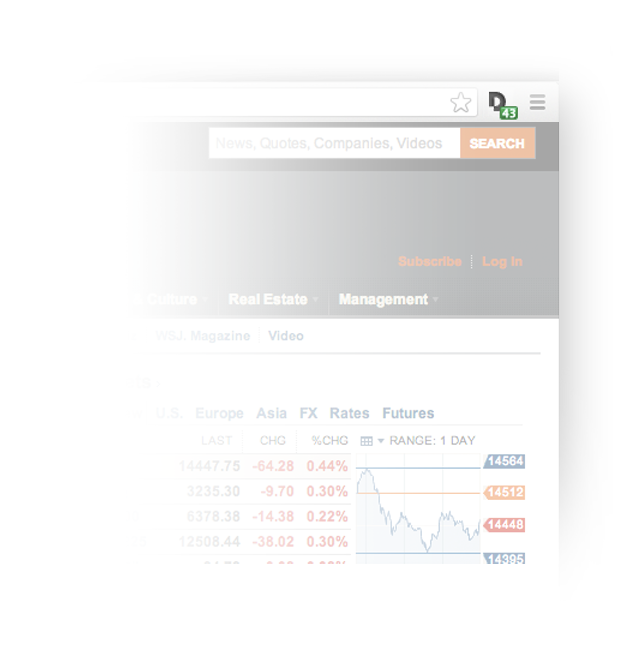
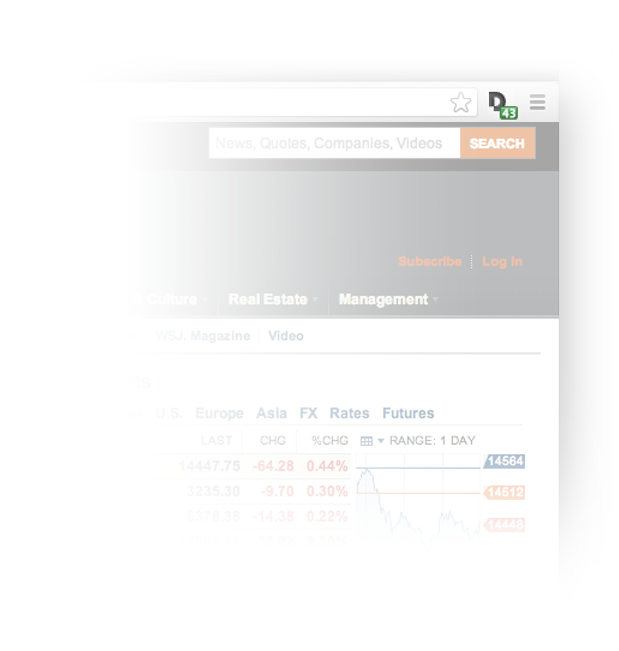
Updated browser. Refined gradient.

diff --git a/webkit/disconnect.safariextension/chrome/stylesheets/d2.css b/webkit/disconnect.safariextension/chrome/stylesheets/d2.css
@@ -49,14 +49,17 @@ body {
   display: inline-block;
   margin-top: 120px;
   margin-left: 6%;
+  width: 60%;
+  vertical-align: top
+}
+
+#description h1 {
   background: -webkit-gradient(radial, center center, 0, center center, 100%, color-stop(0%, white), color-stop(100%, rgba(255, 255, 255, 0)));
   background: -webkit-radial-gradient(center, ellipse cover, white 0%, rgba(255, 255, 255, 0) 100%);
   background: -moz-radial-gradient(center, ellipse cover, white 0%, rgba(255, 255, 255, 0) 100%);
   filter: progid:DXImageTransform.Microsoft.Gradient(GradientType=1, startColorstr='#ffffffff', endColorstr='#00ffffff');
   background: -ms-radial-gradient(center, ellipse cover, white 0%, rgba(255, 255, 255, 0) 100%);
-  background: -o-radial-gradient(center, ellipse cover, white 0%, rgba(255, 255, 255, 0) 100%);
-  width: 60%;
-  vertical-align: top
+  background: -o-radial-gradient(center, ellipse cover, white 0%, rgba(255, 255, 255, 0) 100%)
 }
 
 h2 {
@@ -64,7 +67,24 @@ h2 {
   color: #999
 }
 
-#cta { margin-top: 60px }
+#description h2 {
+  background: -webkit-gradient(radial, center center, 0, center center, 100%, color-stop(0%, white), color-stop(100%, rgba(255, 255, 255, 0)));
+  background: -webkit-radial-gradient(center, ellipse cover, white 0%, rgba(255, 255, 255, 0) 100%);
+  background: -moz-radial-gradient(center, ellipse cover, white 0%, rgba(255, 255, 255, 0) 100%);
+  filter: progid:DXImageTransform.Microsoft.Gradient(GradientType=1, startColorstr='#ffffffff', endColorstr='#00ffffff');
+  background: -ms-radial-gradient(center, ellipse cover, white 0%, rgba(255, 255, 255, 0) 100%);
+  background: -o-radial-gradient(center, ellipse cover, white 0%, rgba(255, 255, 255, 0) 100%)
+}
+
+#cta {
+  margin-top: 60px;
+  background: -webkit-gradient(radial, center center, 0, center center, 100%, color-stop(0%, white), color-stop(100%, rgba(255, 255, 255, 0)));
+  background: -webkit-radial-gradient(center, ellipse cover, white 0%, rgba(255, 255, 255, 0) 100%);
+  background: -moz-radial-gradient(center, ellipse cover, white 0%, rgba(255, 255, 255, 0) 100%);
+  filter: progid:DXImageTransform.Microsoft.Gradient(GradientType=1, startColorstr='#ffffffff', endColorstr='#00ffffff');
+  background: -ms-radial-gradient(center, ellipse cover, white 0%, rgba(255, 255, 255, 0) 100%);
+  background: -o-radial-gradient(center, ellipse cover, white 0%, rgba(255, 255, 255, 0) 100%)
+}
 
 #pwyw {
   display: inline-block;
@@ -110,12 +130,6 @@ h2 {
 
 .feature {
   display: inline-block;
-  background: -webkit-gradient(radial, center center, 0, center center, 100%, color-stop(0%, white), color-stop(100%, rgba(255, 255, 255, 0)));
-  background: -webkit-radial-gradient(center, ellipse cover, white 0%, rgba(255, 255, 255, 0) 100%);
-  background: -moz-radial-gradient(center, ellipse cover, white 0%, rgba(255, 255, 255, 0) 100%);
-  filter: progid:DXImageTransform.Microsoft.Gradient(GradientType=1, startColorstr='#ffffffff', endColorstr='#00ffffff');
-  background: -ms-radial-gradient(center, ellipse cover, white 0%, rgba(255, 255, 255, 0) 100%);
-  background: -o-radial-gradient(center, ellipse cover, white 0%, rgba(255, 255, 255, 0) 100%);
   width: 33%
 }
 
